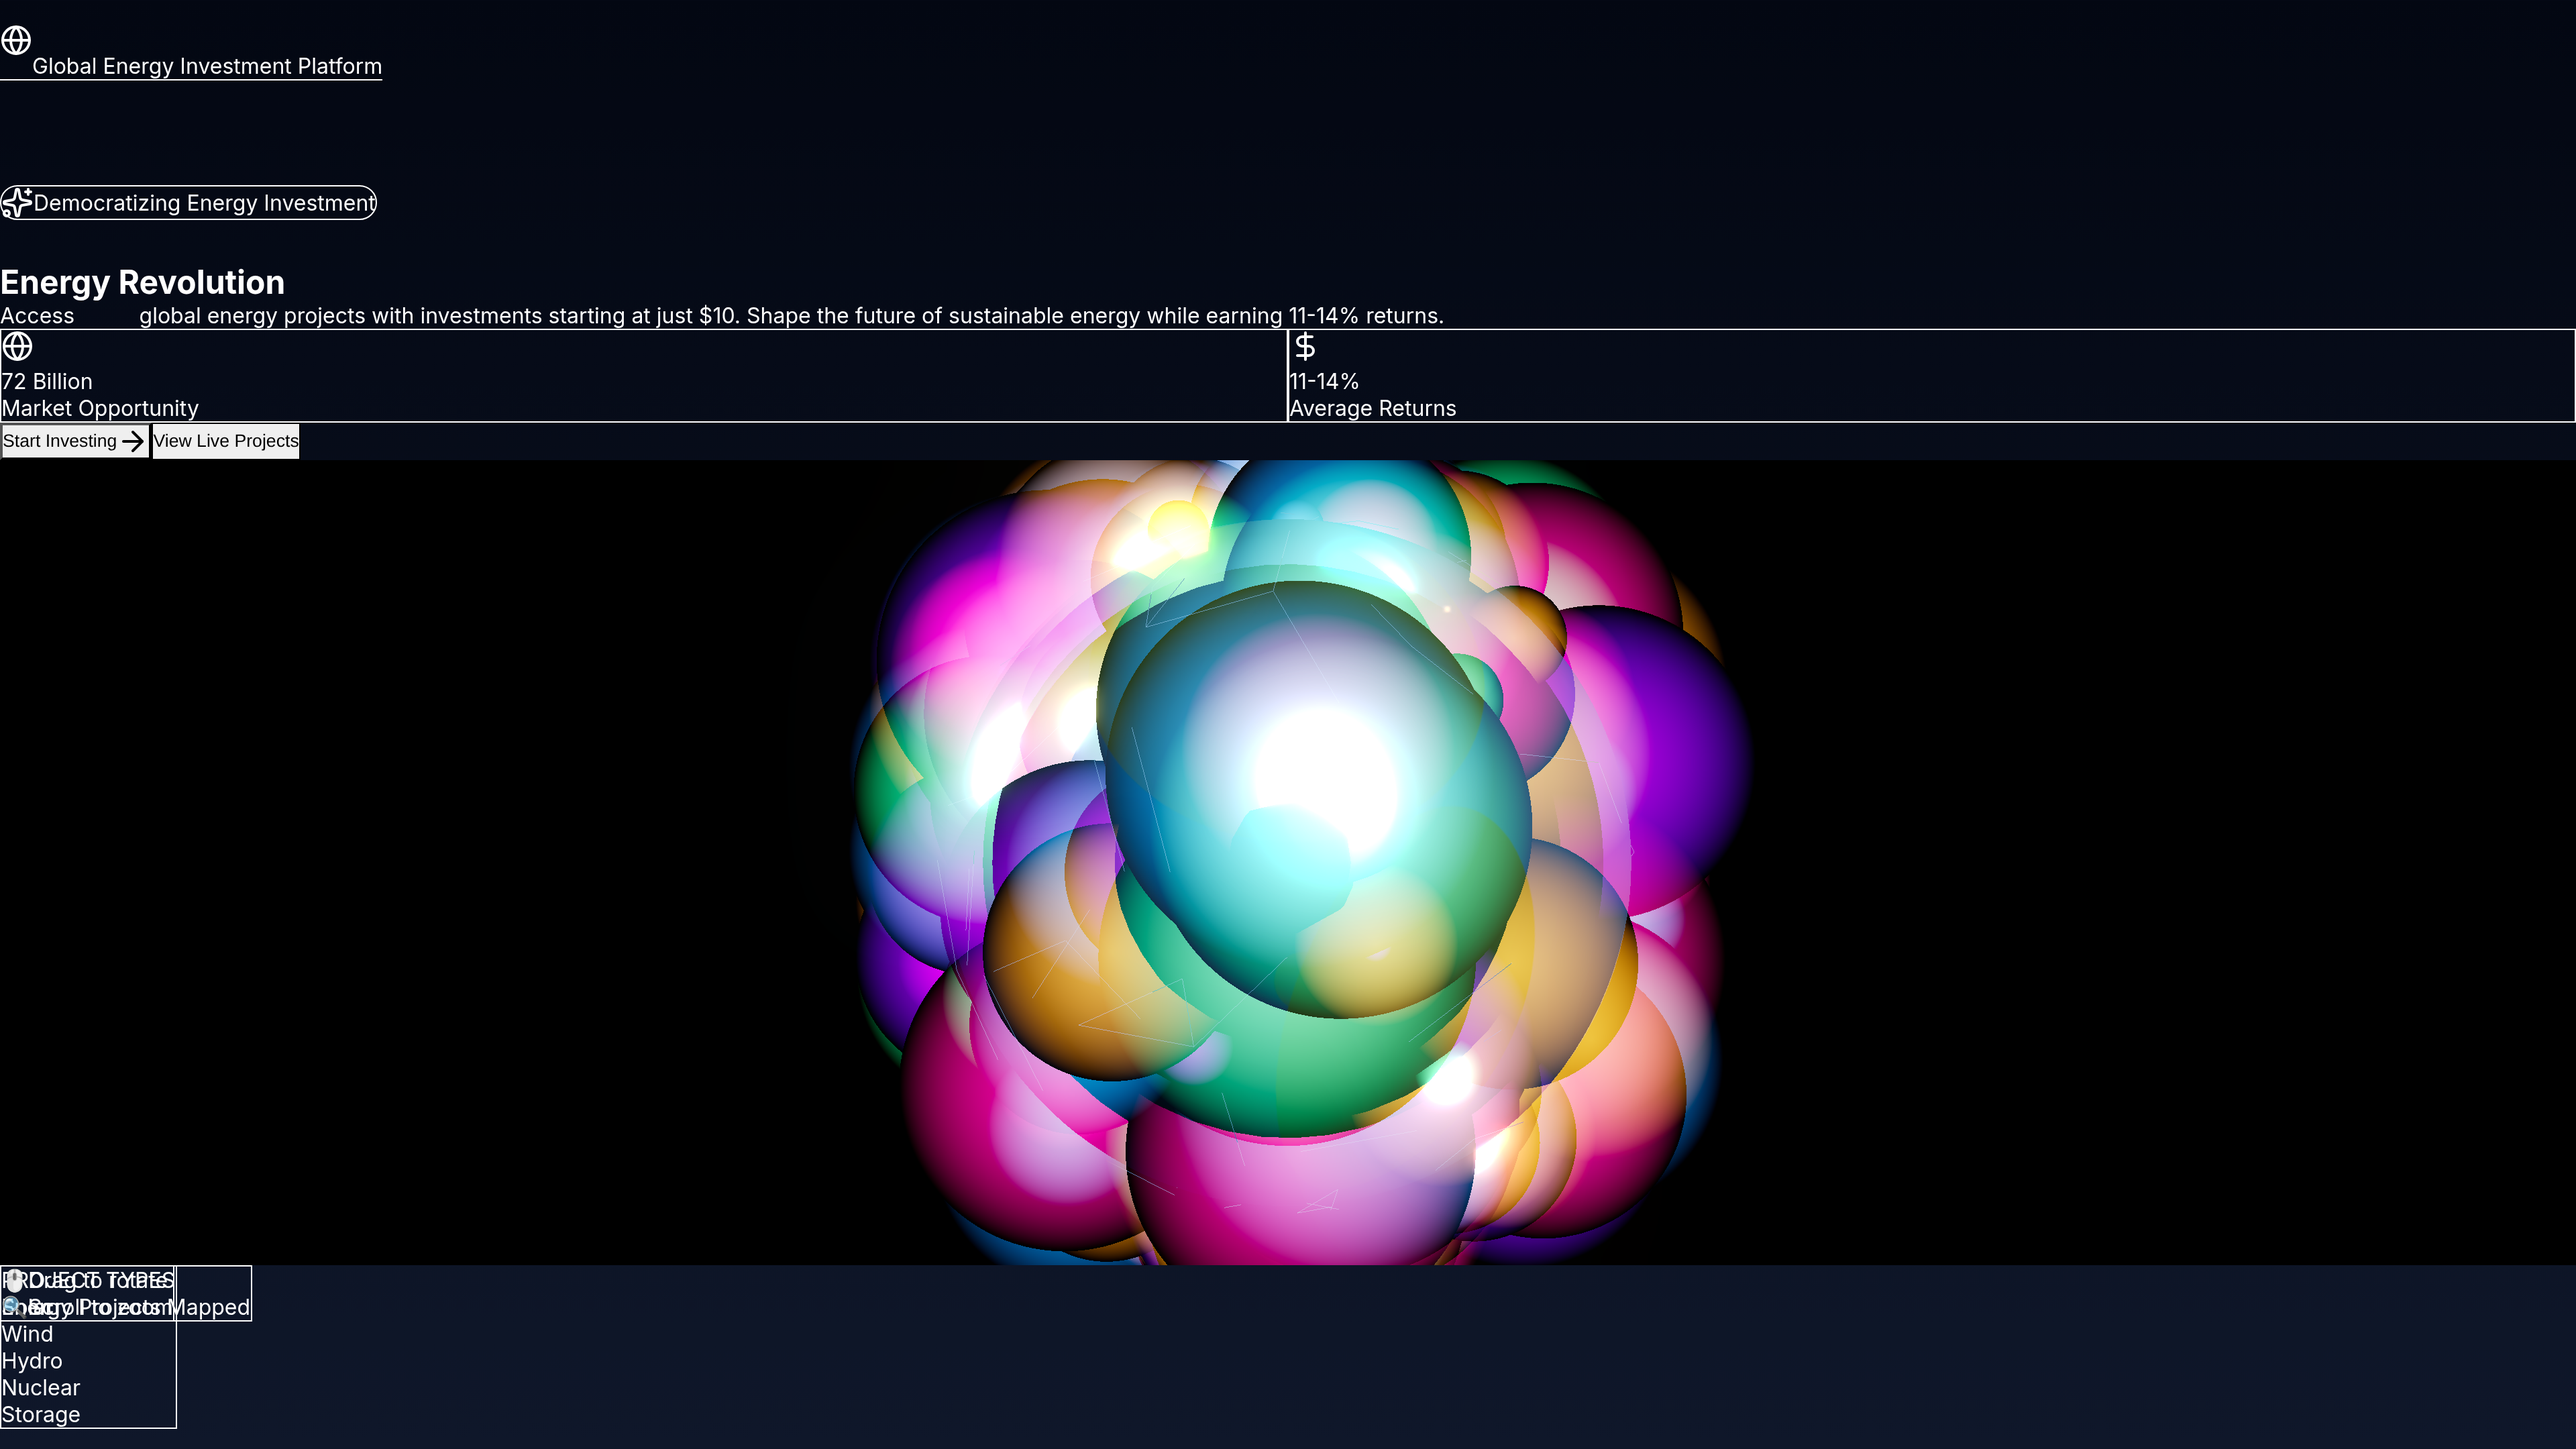
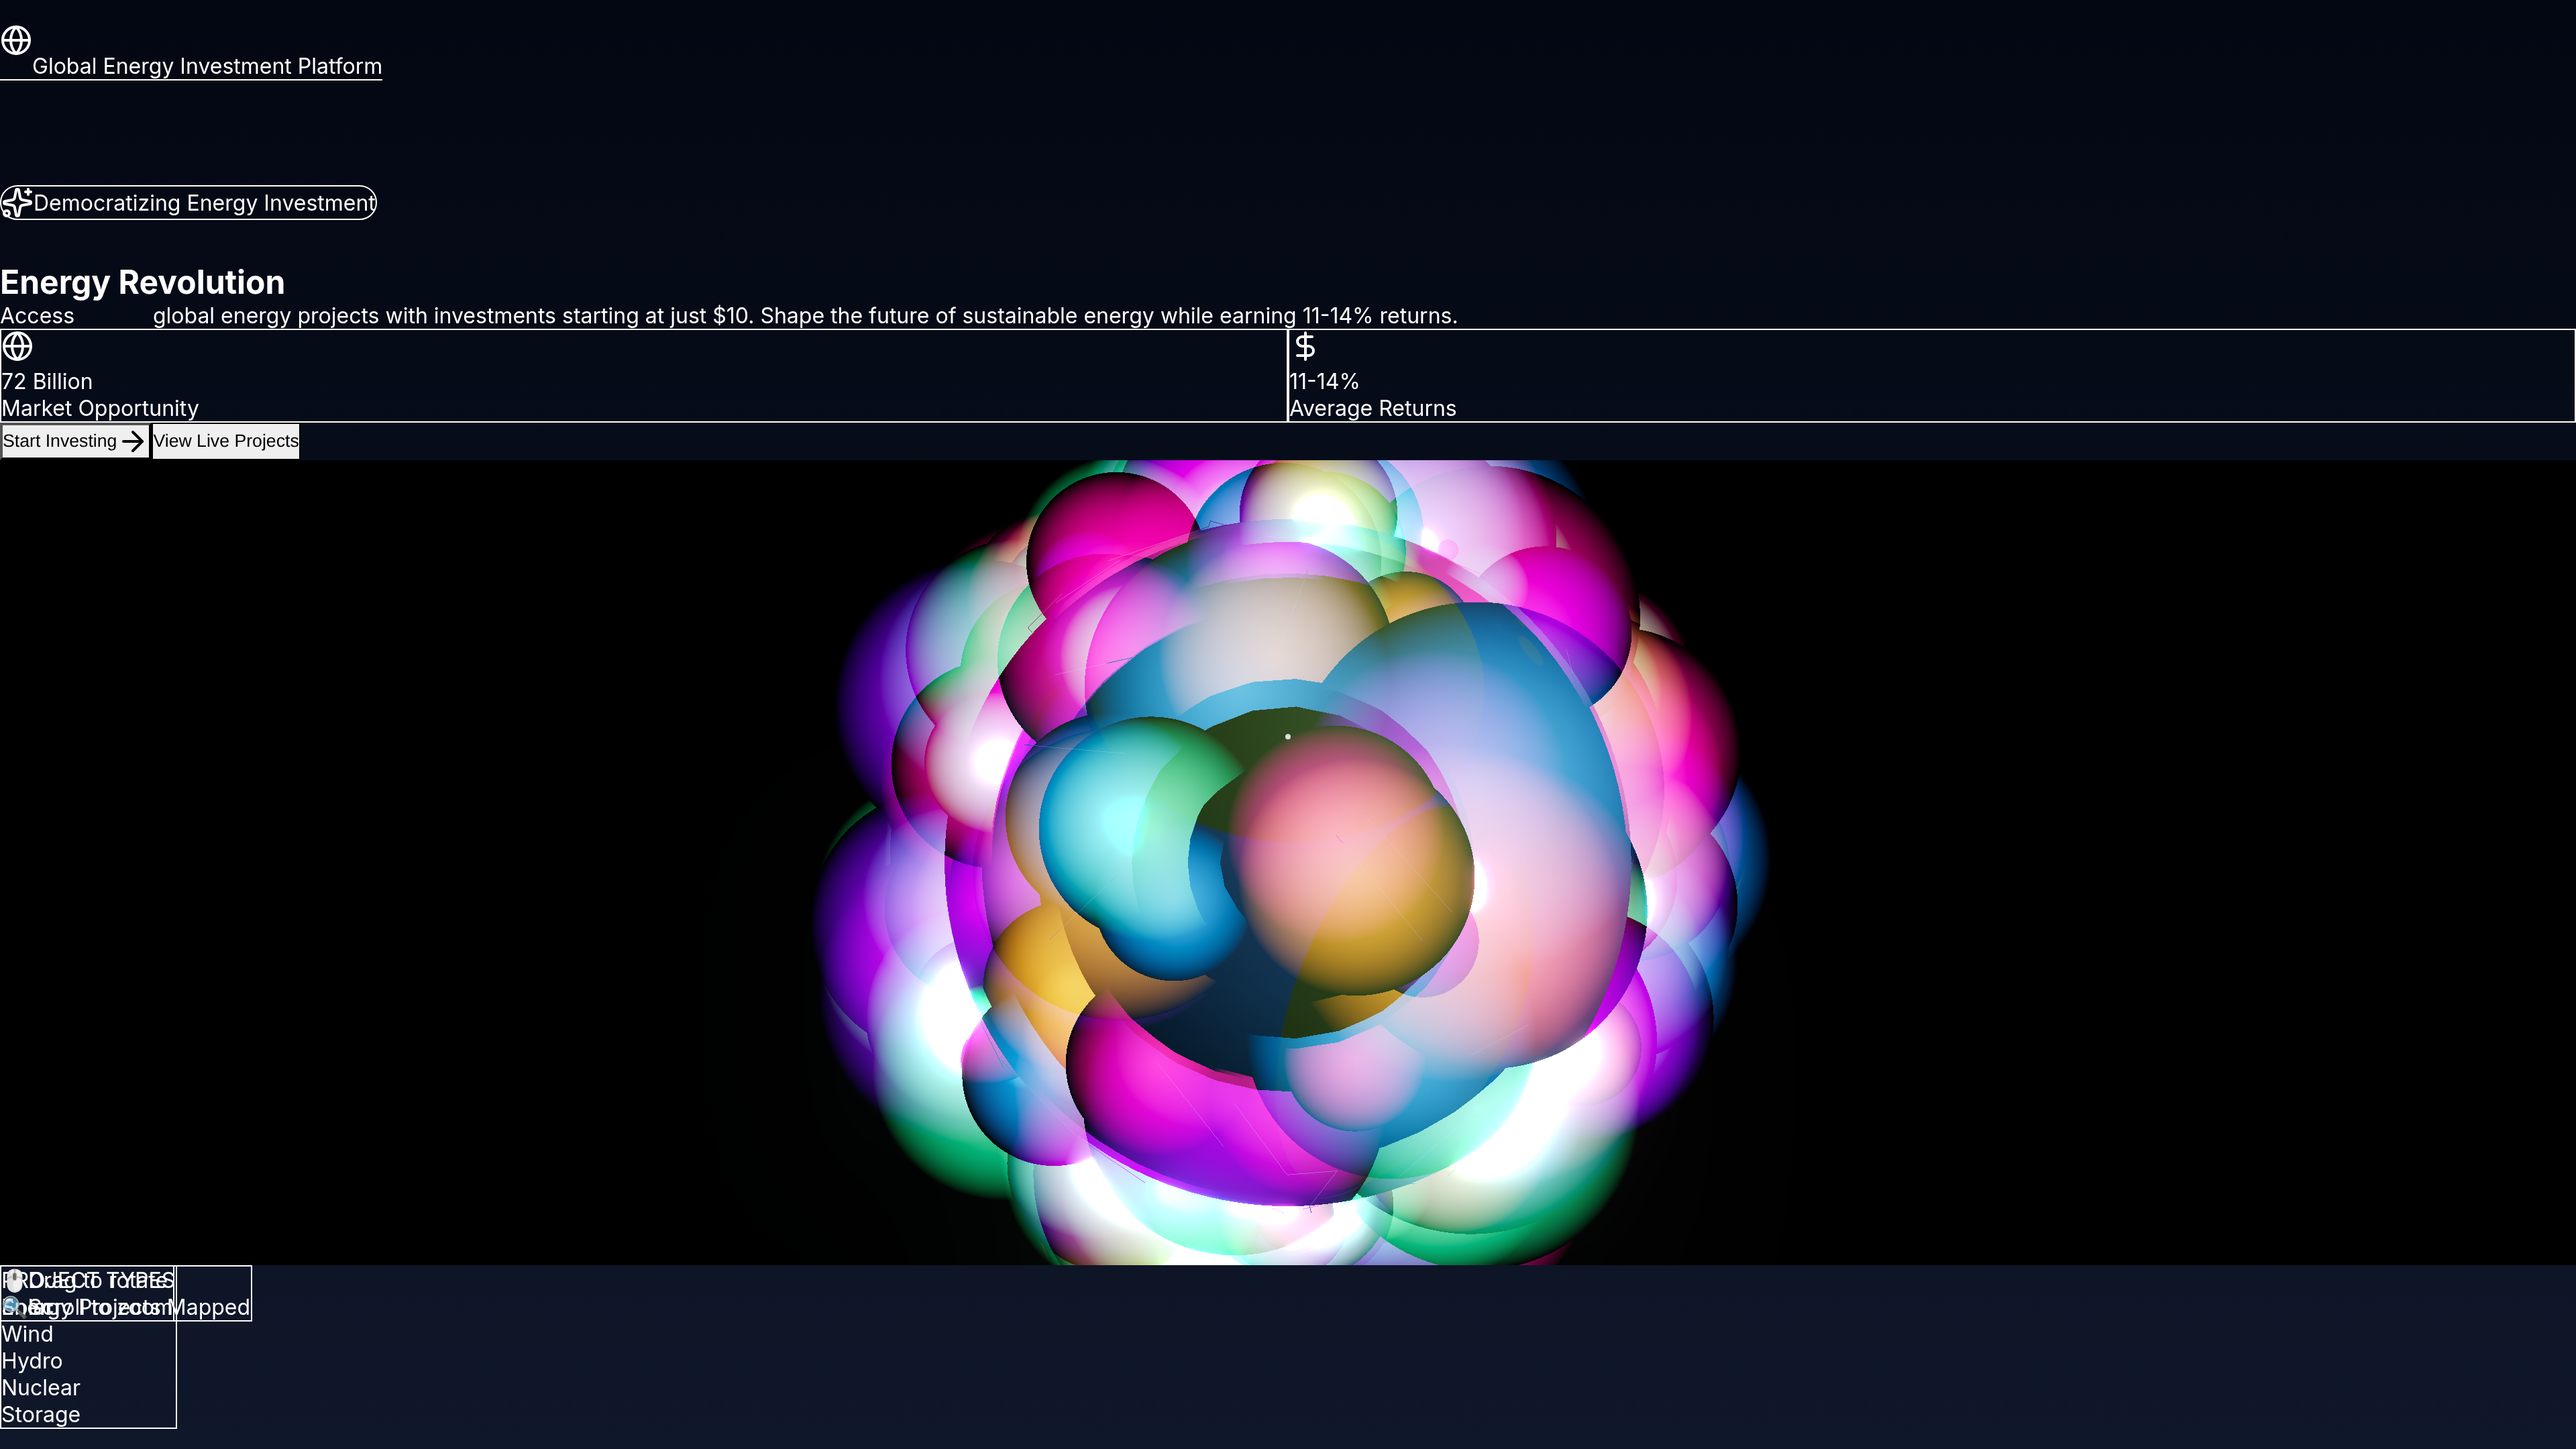
🌍 Try official unpkg URLs for globe textures

diff --git a/components/TerraGlobeBackground.tsx b/components/TerraGlobeBackground.tsx
@@ -322,10 +322,11 @@ export default function TerraGlobeBackground() {
         }
       })
       
-      // Beautiful, calm Earth with natural atmosphere (using reliable CDN)
+      // Beautiful, calm Earth with natural atmosphere
+      // Using exact working URLs from three-globe repository examples
       const globe = Globe()(globeEl.current)
-        .globeImageUrl('https://cdn.jsdelivr.net/npm/three-globe@2.31.1/example/img/earth-blue-marble.jpg') // Beautiful Earth texture (reliable HTTPS CDN)
-        .bumpImageUrl('https://cdn.jsdelivr.net/npm/three-globe@2.31.1/example/img/earth-topology.png') // Terrain depth
+        .globeImageUrl('https://unpkg.com/three-globe/example/img/earth-blue-marble.jpg') // Official example texture
+        .bumpImageUrl('https://unpkg.com/three-globe/example/img/earth-topology.png') // Official example topology
         .backgroundImageUrl(null) // Clean space background
         .backgroundColor('rgba(0, 0, 0, 0)') // Transparent
         .showAtmosphere(true)
